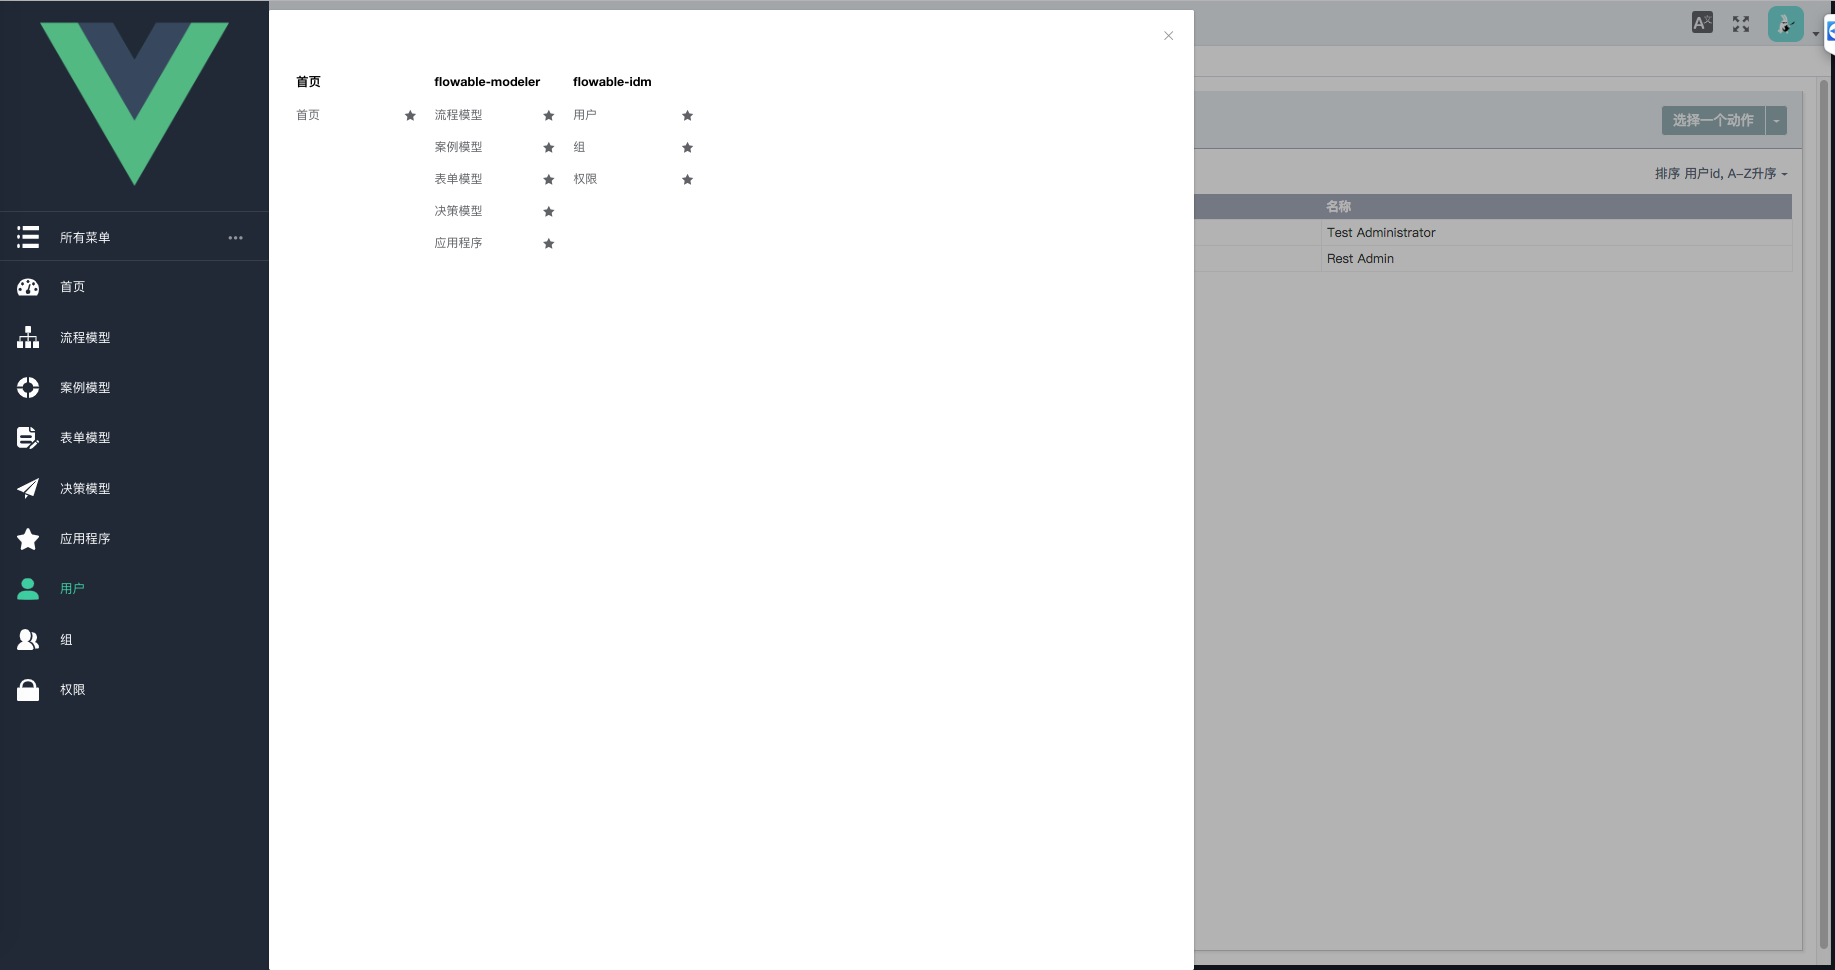
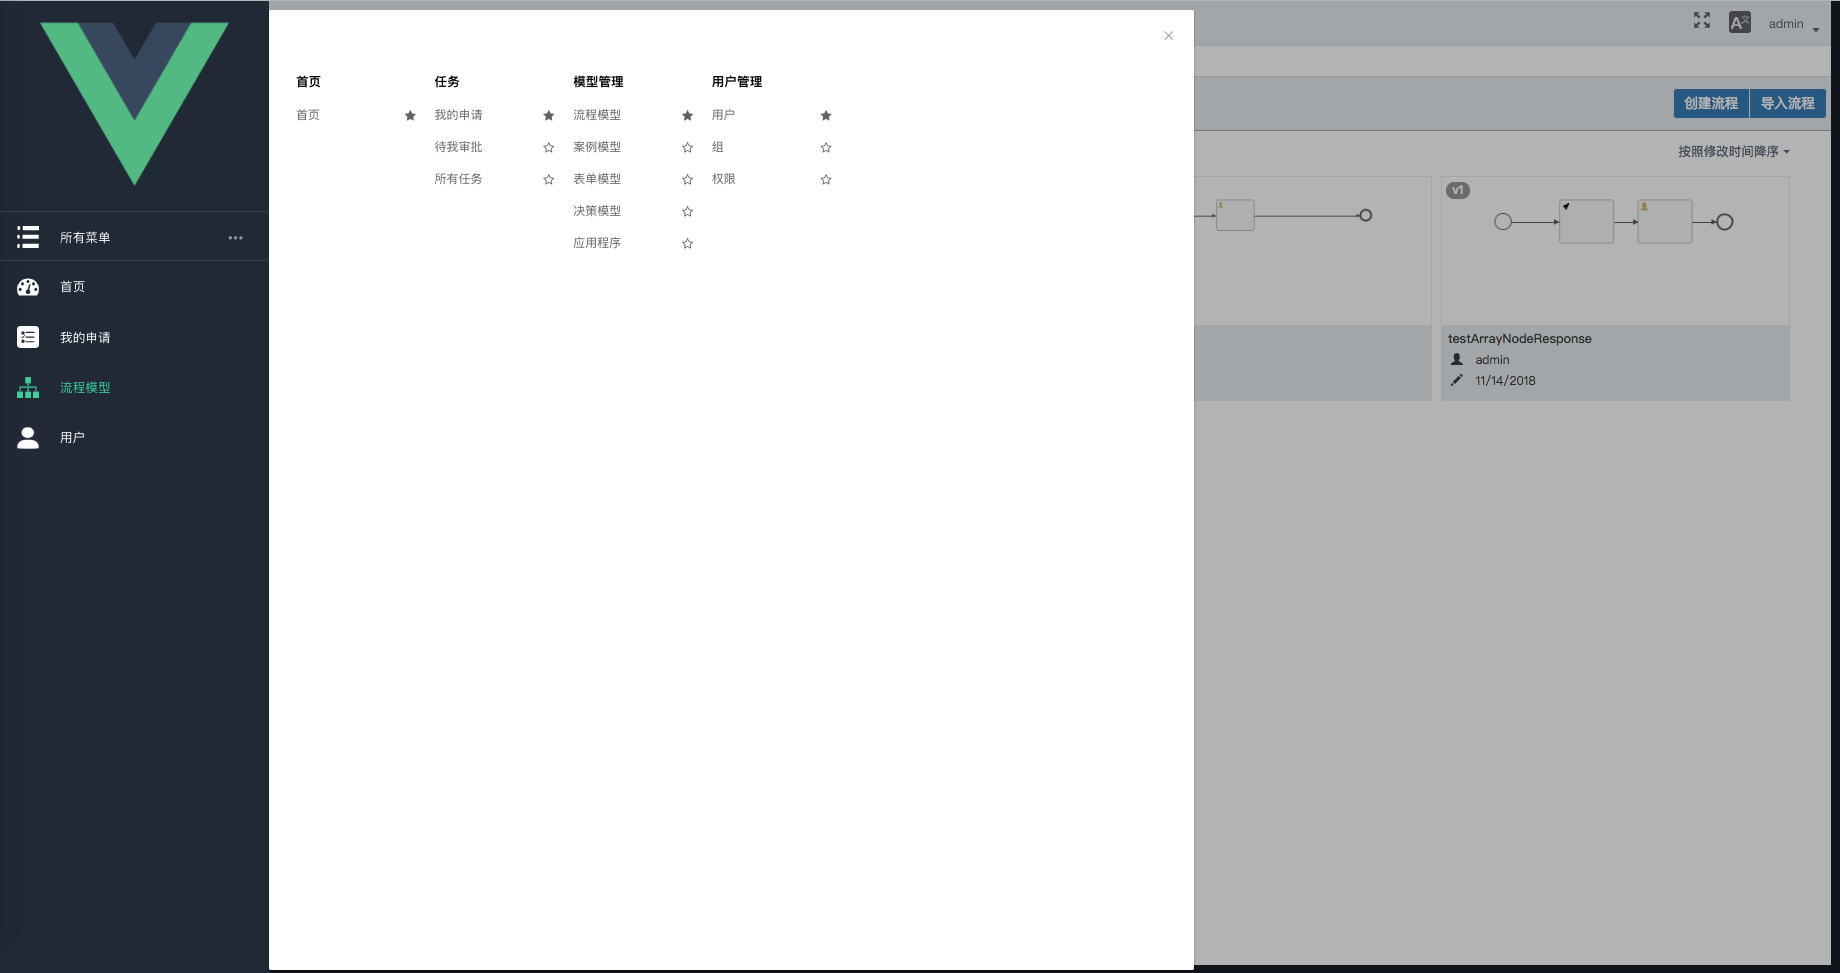
flowable

diff --git a/src/router/modules/flowable-modeler.js b/src/router/modules/flowable-modeler.js
@@ -11,35 +11,30 @@ const modelerRouter = {
       path: 'processes',
       component: () => import('@/views/flowable/index'),
       name: 'processes',
-      alwaysShow: true,
       meta: { title: 'processes', icon: 'tree', root: 'modeler', page: 'processes' }
     },
     {
       path: 'casemodels',
       component: () => import('@/views/flowable/index'),
       name: 'casemodels',
-      alwaysShow: true,
       meta: { title: 'casemodels', icon: 'example', root: 'modeler', page: 'casemodels' }
     },
     {
       path: 'forms',
       component: () => import('@/views/flowable/index'),
       name: 'forms',
-      alwaysShow: true,
       meta: { title: 'forms', icon: 'form', root: 'modeler', page: 'forms' }
     },
     {
       path: 'decision-tables',
       component: () => import('@/views/flowable/index'),
       name: 'decision-tables',
-      alwaysShow: true,
       meta: { title: 'decision-tables', icon: 'guide', root: 'modeler', page: 'decision-tables' }
     },
     {
       path: 'apps',
       component: () => import('@/views/flowable/index'),
       name: 'apps',
-      alwaysShow: true,
       meta: { title: 'apps', icon: 'star', root: 'modeler', page: 'apps' }
     }
   ]

diff --git a/src/router/modules/flowable-task.js b/src/router/modules/flowable-task.js
@@ -1,0 +1,31 @@
+
+import Layout from '@/views/layout/Layout'
+
+const taskRouter = {
+  path: '/flowable-task',
+  component: Layout,
+  name: 'flowable-task',
+  redirect: '/flowable-task/index',
+  children: [
+    {
+      path: 'myToDo',
+      component: () => import('@/views/dashboard/index'),
+      name: 'myToDo',
+      alwaysShow: true,
+      meta: { title: 'myToDo', icon: 'myToDo' }
+    },
+    {
+      path: 'waitMeDo',
+      component: () => import('@/views/flowable/index'),
+      name: 'waitMeDo',
+      meta: { title: 'waitMeDo', icon: 'waitMeDo' }
+    },
+    {
+      path: 'taskAll',
+      component: () => import('@/views/flowable/index'),
+      name: 'taskAll',
+      meta: { title: 'taskAll', icon: 'taskAll' }
+    }
+  ]
+}
+export default taskRouter

diff --git a/src/router/modules/flowable-idm.js b/src/router/modules/flowable-idm.js
@@ -11,21 +11,18 @@ const idmRouter = {
       path: 'user-mgmt',
       component: () => import('@/views/flowable/index'),
       name: 'user-mgmt',
-      alwaysShow: true,
       meta: { title: 'user-mgmt', icon: 'user', root: 'idm', page: 'user-mgmt' }
     },
     {
       path: 'group-mgmt',
       component: () => import('@/views/flowable/index'),
       name: 'group-mgmt',
-      alwaysShow: true,
       meta: { title: 'group-mgmt', icon: 'peoples', root: 'idm', page: 'group-mgmt' }
     },
     {
       path: 'privilege-mgmt',
       component: () => import('@/views/flowable/index'),
       name: 'privilege-mgmt',
-      alwaysShow: true,
       meta: { title: 'privilege-mgmt', icon: 'lock', root: 'idm', page: 'privilege-mgmt' }
     }
   ]

diff --git a/src/lang/zh.js b/src/lang/zh.js
@@ -2,15 +2,20 @@ export default {
   route: {
     allMenus: '所有菜单',
     dashboard: '首页',
-    'flowable-modeler': 'flowable-modeler',
+    'flowable-modeler': '模型管理',
     processes: '流程模型',
     casemodels: '案例模型',
     forms: '表单模型',
     'decision-tables': '决策模型',
     apps: '应用程序',
+    'flowable-idm': '用户管理',
     'user-mgmt': '用户',
     'group-mgmt': '组',
     'privilege-mgmt': '权限',
+    'flowable-task': '任务',
+    'myToDo': '我的申请',
+    'waitMeDo': '待我审批',
+    'taskAll': '所有任务',
     introduction: '简述',
     documentation: '文档',
     guide: '引导页',

diff --git a/src/router/index.js b/src/router/index.js
@@ -9,6 +9,7 @@ import Layout from '@/views/layout/Layout'
 /* Router Modules */
 import modelerRouter from './modules/flowable-modeler'
 import idmRouter from './modules/flowable-idm'
+import taskRouter from './modules/flowable-task'
 
 /**
  * name 值唯一
@@ -67,6 +68,8 @@ export const constantRouterMap = [
       }
     ]
   },
+
+  taskRouter,
 
   modelerRouter,
 

diff --git a/src/views/layout/components/Sidebar/DialogMenus.vue b/src/views/layout/components/Sidebar/DialogMenus.vue
@@ -67,7 +67,6 @@ export default {
     },
     checkStart(item) {
       if (this.routers && item) {
-        console.log(this.routers, item.name)
         const index = this.routers.findIndex(r => {
           if (item.name) {
             return r.name === item.name
